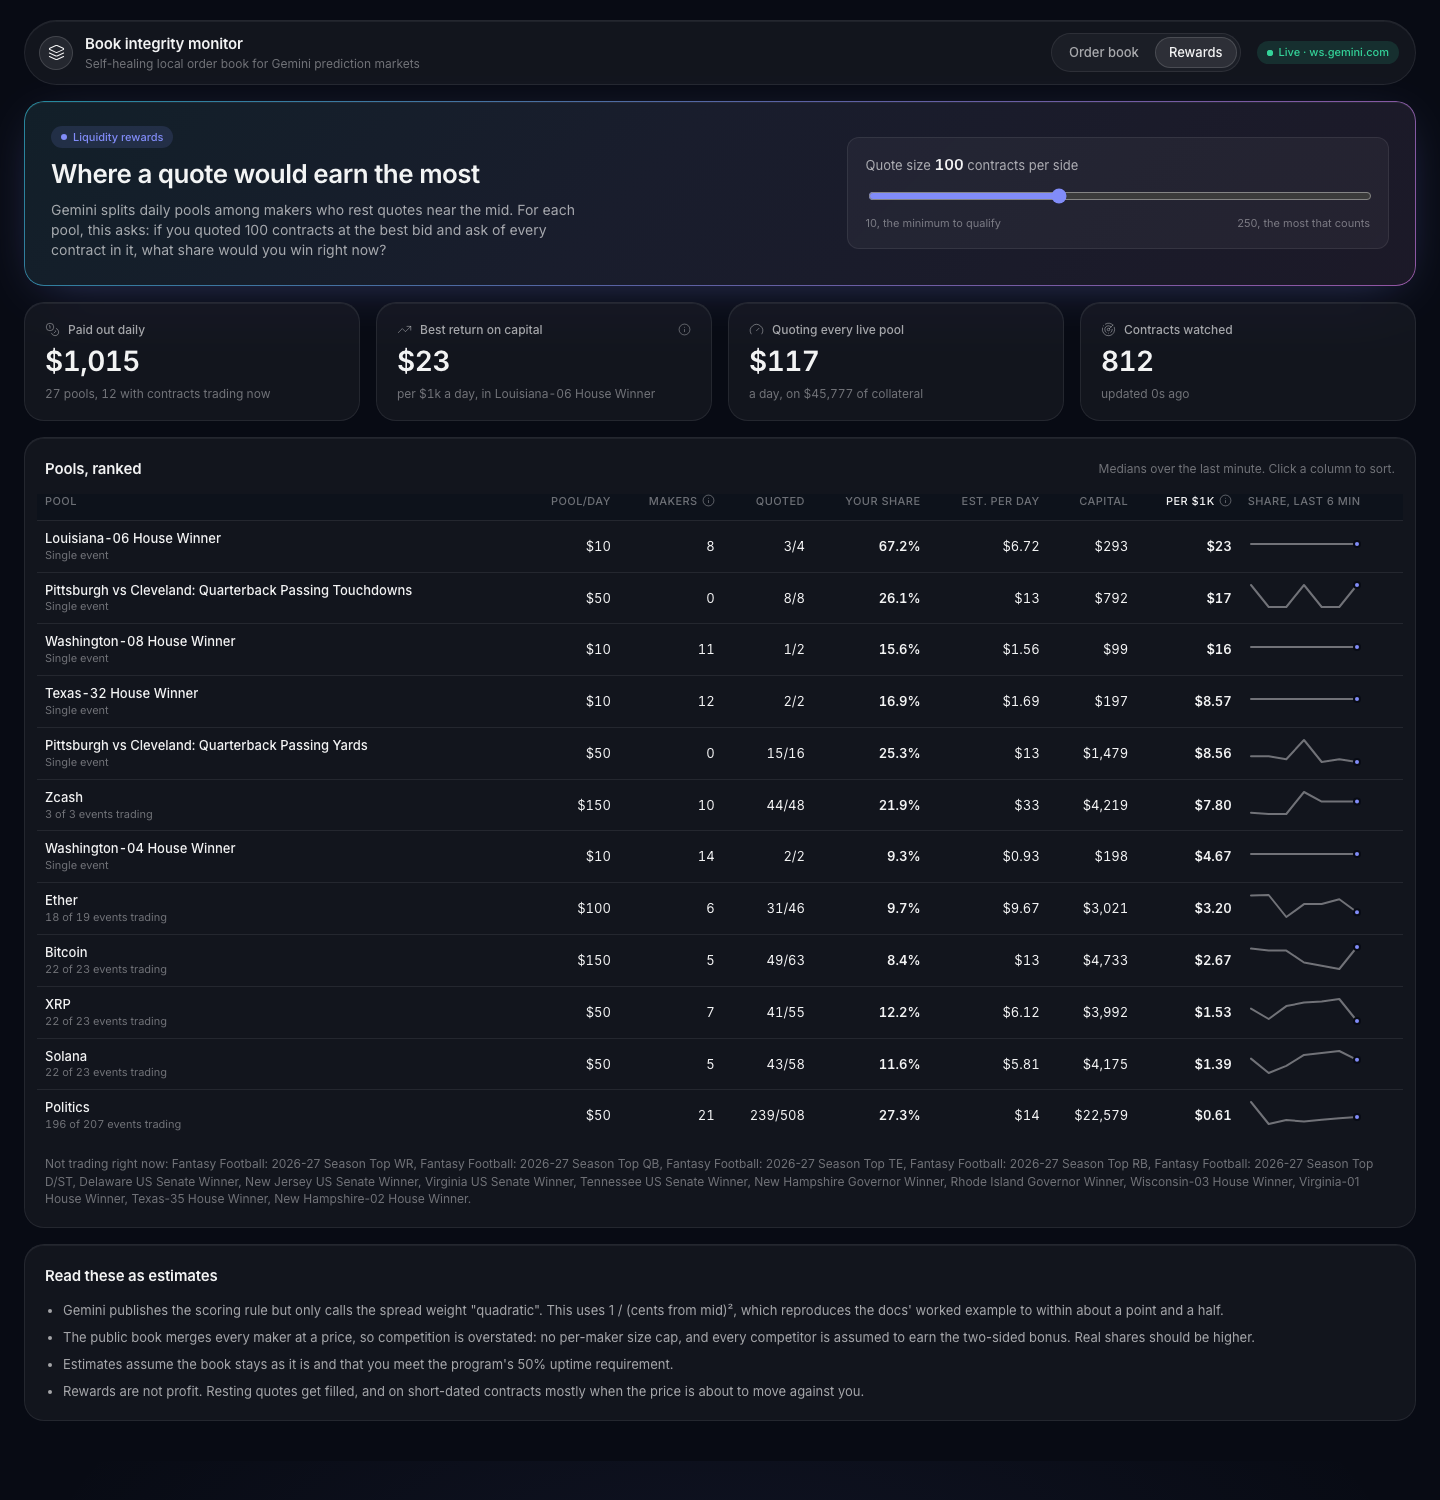
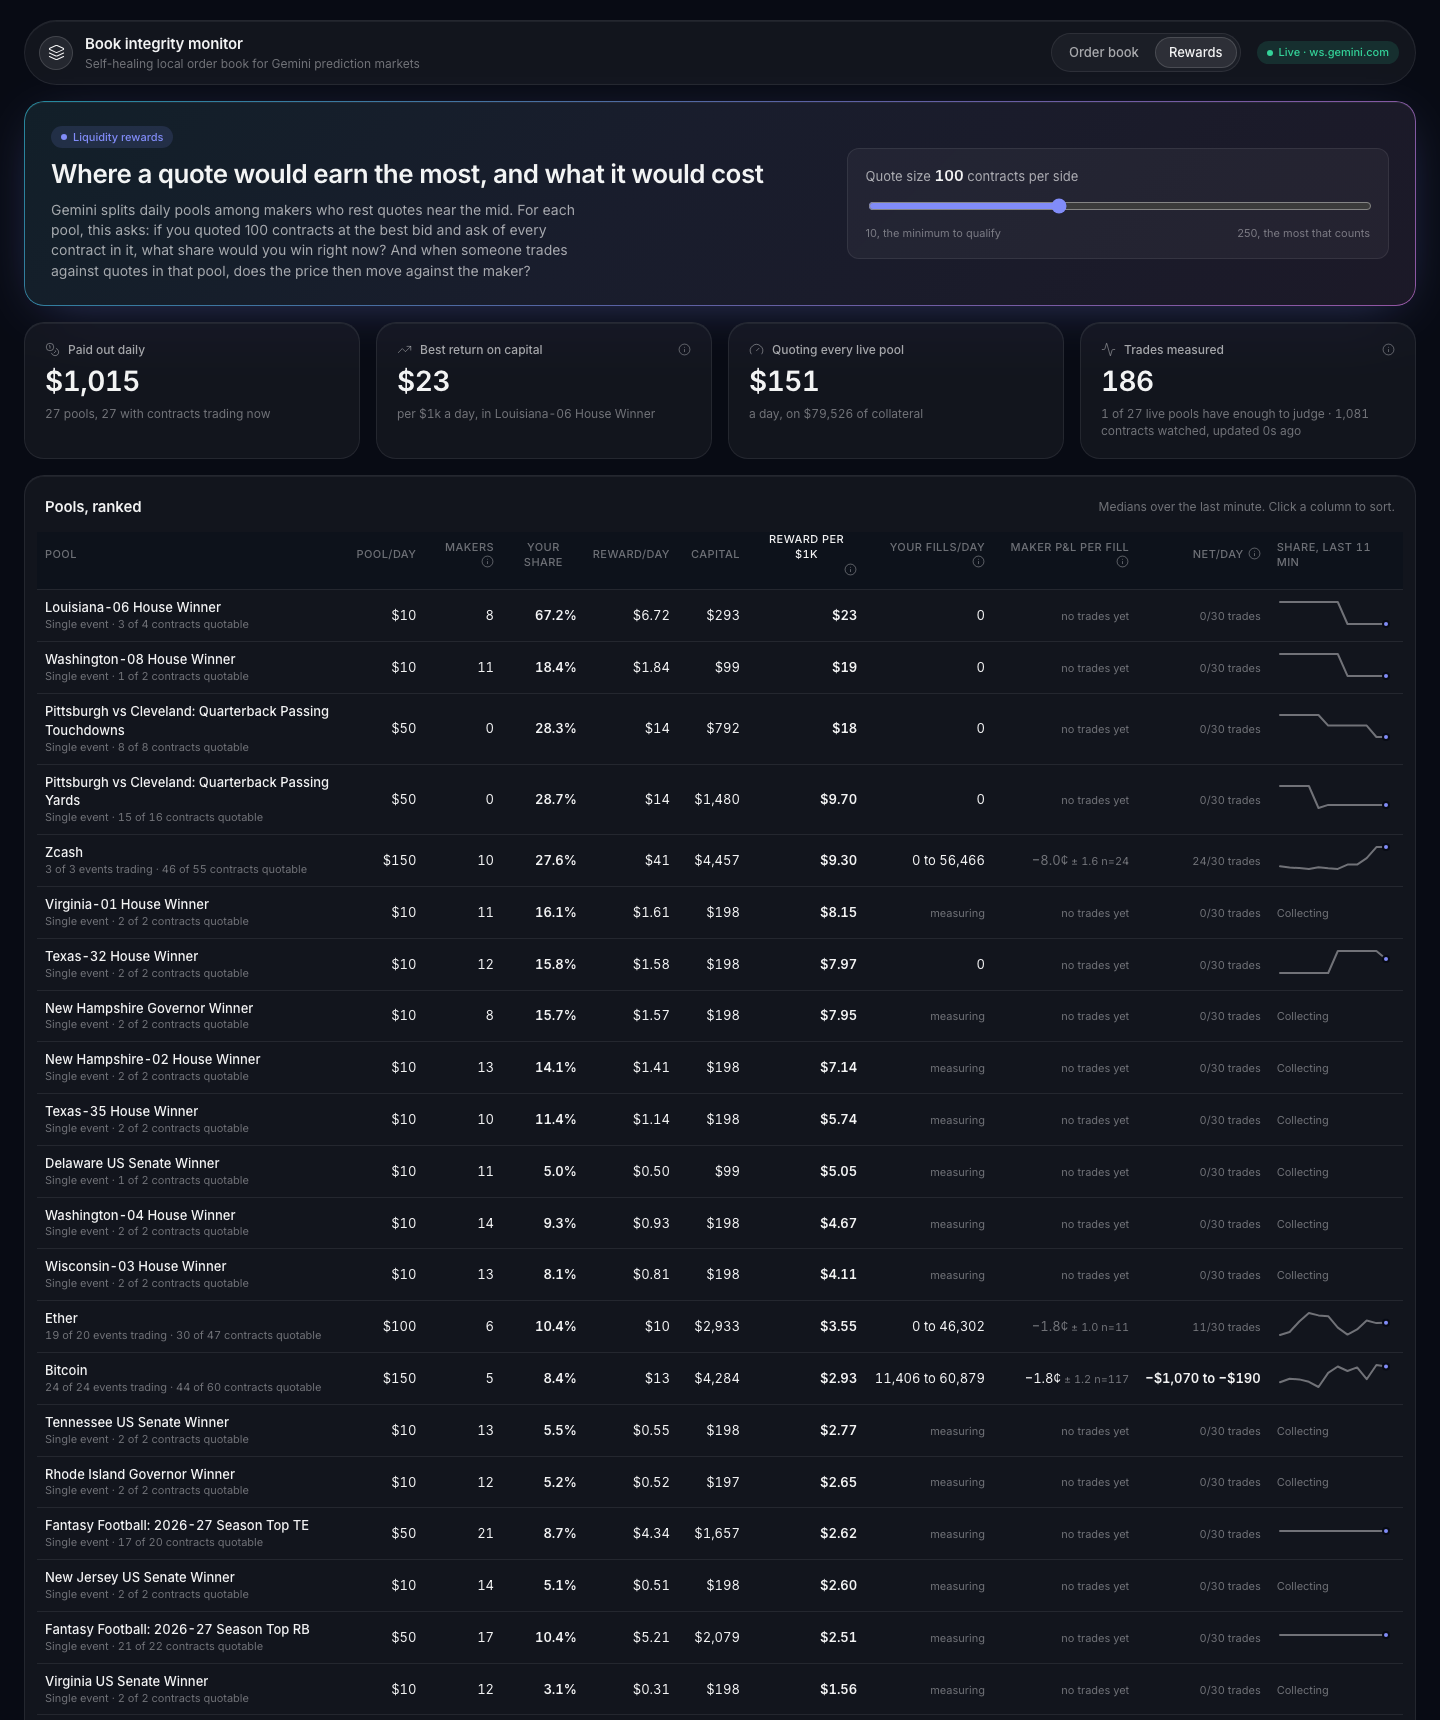
Document fill risk on the Rewards tab, with a fresh live screenshot

diff --git a/README.md b/README.md
@@ -85,7 +85,7 @@ For a demo, pick a busy contract: on a quiet market no deltas arrive, so *Drop 3
 npm test
 ```
 
-58 tests. The unit tests cover the book (sequencing, stale and overlapping frames, level removal, decimal canonicalization, crossed-book detection), the integrity checker, and market discovery and rollover. The end-to-end tests run the real `FeedClient` over real sockets against a mock exchange that speaks the same protocol and holds the true book, then assert the client's book is identical after each fault: dropped updates, an exchange-side gap, silent corruption, a cut connection, the exchange dropping every client, and a symbol switch. The mock also has a quiet mode, as on a live market with no activity: the book stops changing but `depth20` snapshots keep arriving, which covers lag sampling, the stale-data watchdog, and faults on a quiet book. The rewards tests pin the scoring model to the docs' worked example and run the whole estimator against the mock's reward endpoints.
+67 tests. The unit tests cover the book (sequencing, stale and overlapping frames, level removal, decimal canonicalization, crossed-book detection), the integrity checker, and market discovery and rollover. The end-to-end tests run the real `FeedClient` over real sockets against a mock exchange that speaks the same protocol and holds the true book, then assert the client's book is identical after each fault: dropped updates, an exchange-side gap, silent corruption, a cut connection, the exchange dropping every client, and a symbol switch. The mock also has a quiet mode, as on a live market with no activity: the book stops changing but `depth20` snapshots keep arriving, which covers lag sampling, the stale-data watchdog, and faults on a quiet book. The rewards tests pin the scoring model to the docs' worked example, check markout arithmetic by hand, and run the whole estimator against the mock's reward endpoints, including fills surviving a restart.
 
 ## Layout
 
@@ -98,7 +98,7 @@ server/src/
   app.ts           wiring, rollover, dashboard state
   http.ts          API and state stream
   mock/exchange.ts protocol-compatible mock for tests and offline demos
-  rewards/         liquidity rewards: scoring model, pools, depth20 sampler, estimates
+  rewards/         liquidity rewards: scoring, pools, sampler, tracker, fill markouts
 web/src/           React dashboard
 test/              unit and end-to-end tests
 scripts/           rewards.ts (npm run rewards), discover.ts and record.ts
@@ -133,7 +133,11 @@ Fantasy Football: 2026-27 Season Top QB            $50      21      17/20     0.
 
 **Why it errs low.** The public book merges every maker at a price, so the per-maker size cap can't be applied, and every competitor is assumed to earn the two-sided bonus. Both overstate the competition.
 
-**What it doesn't tell you.** Rewards are not profit. A resting quote gets filled, and on short-dated contracts mostly when the price is about to move against it. The estimate also assumes the book stays as it was during the sample, and that you meet the program's 50% uptime requirement.
+**Fill risk: the other side of the ledger.** Rewards are not profit. A resting quote gets traded against, and often by someone who knows the price is about to move. So the tracker also watches every trade in every reward pool and checks where the mid is 5, 30 and 60 seconds later. If a maker sold at 51¢ and the mid is 55¢ a minute later, that maker is 4¢ per contract worse off; traders call this the *markout*. Averaged per pool, it shows whether makers there keep the spread or get picked off. To estimate your own fills, each trade is replayed against your quote twice. At the back of the queue, a trade of Q contracts first fills the contracts already resting at that price when it arrived, and only what's left reaches you. At the front, every trade reaches you first. Either way you're never filled for more than your size. Your real place is somewhere in between, so fills and **net per day** (reward + fills × markout) are shown as a range, and the ranking sorts by the worse end. On live data, a new quote at the back of the queue was almost never reached: the makers at the front take the fills, and in crypto pools those fills lost money on average.
+
+Markouts need many trades, so finished fills are saved to `data/fills.ndjson` (a week's worth, kept across restarts), every figure carries its trade count and a 95% margin of error, and no net figure is shown below 30 trades. It still doesn't capture holding a position until settlement, when a contract jumps to $0 or $1.
+
+**Other assumptions.** The estimate assumes the book stays as it was during the sample, and that you meet the program's 50% uptime requirement.
 
 ## Verified on live data
 
@@ -151,7 +155,7 @@ Still unconfirmed: the contract status strings sent when a contract ends. Rollov
 
 The order book monitor is the foundation. Next up, each with a design doc before any code:
 
-1. **Liquidity rewards estimator** *(done, see above)*: live in the dashboard with per-pool trends.
+1. **Liquidity rewards estimator** *(done, see above)*: rewards, fill risk and net per pool, live in the dashboard.
 2. **Many books over shared connections**: needed by the features below ([design 0001](docs/design/0001-multi-contract-feed.md), deferred until then).
 3. **Market coherence monitor**: how tightly related contracts respect the rules of probability, and how fast breaks are corrected ([finding 0001](docs/findings/0001-market-coherence.md)).
 4. **Implied price distributions** from crypto strike ladders.
